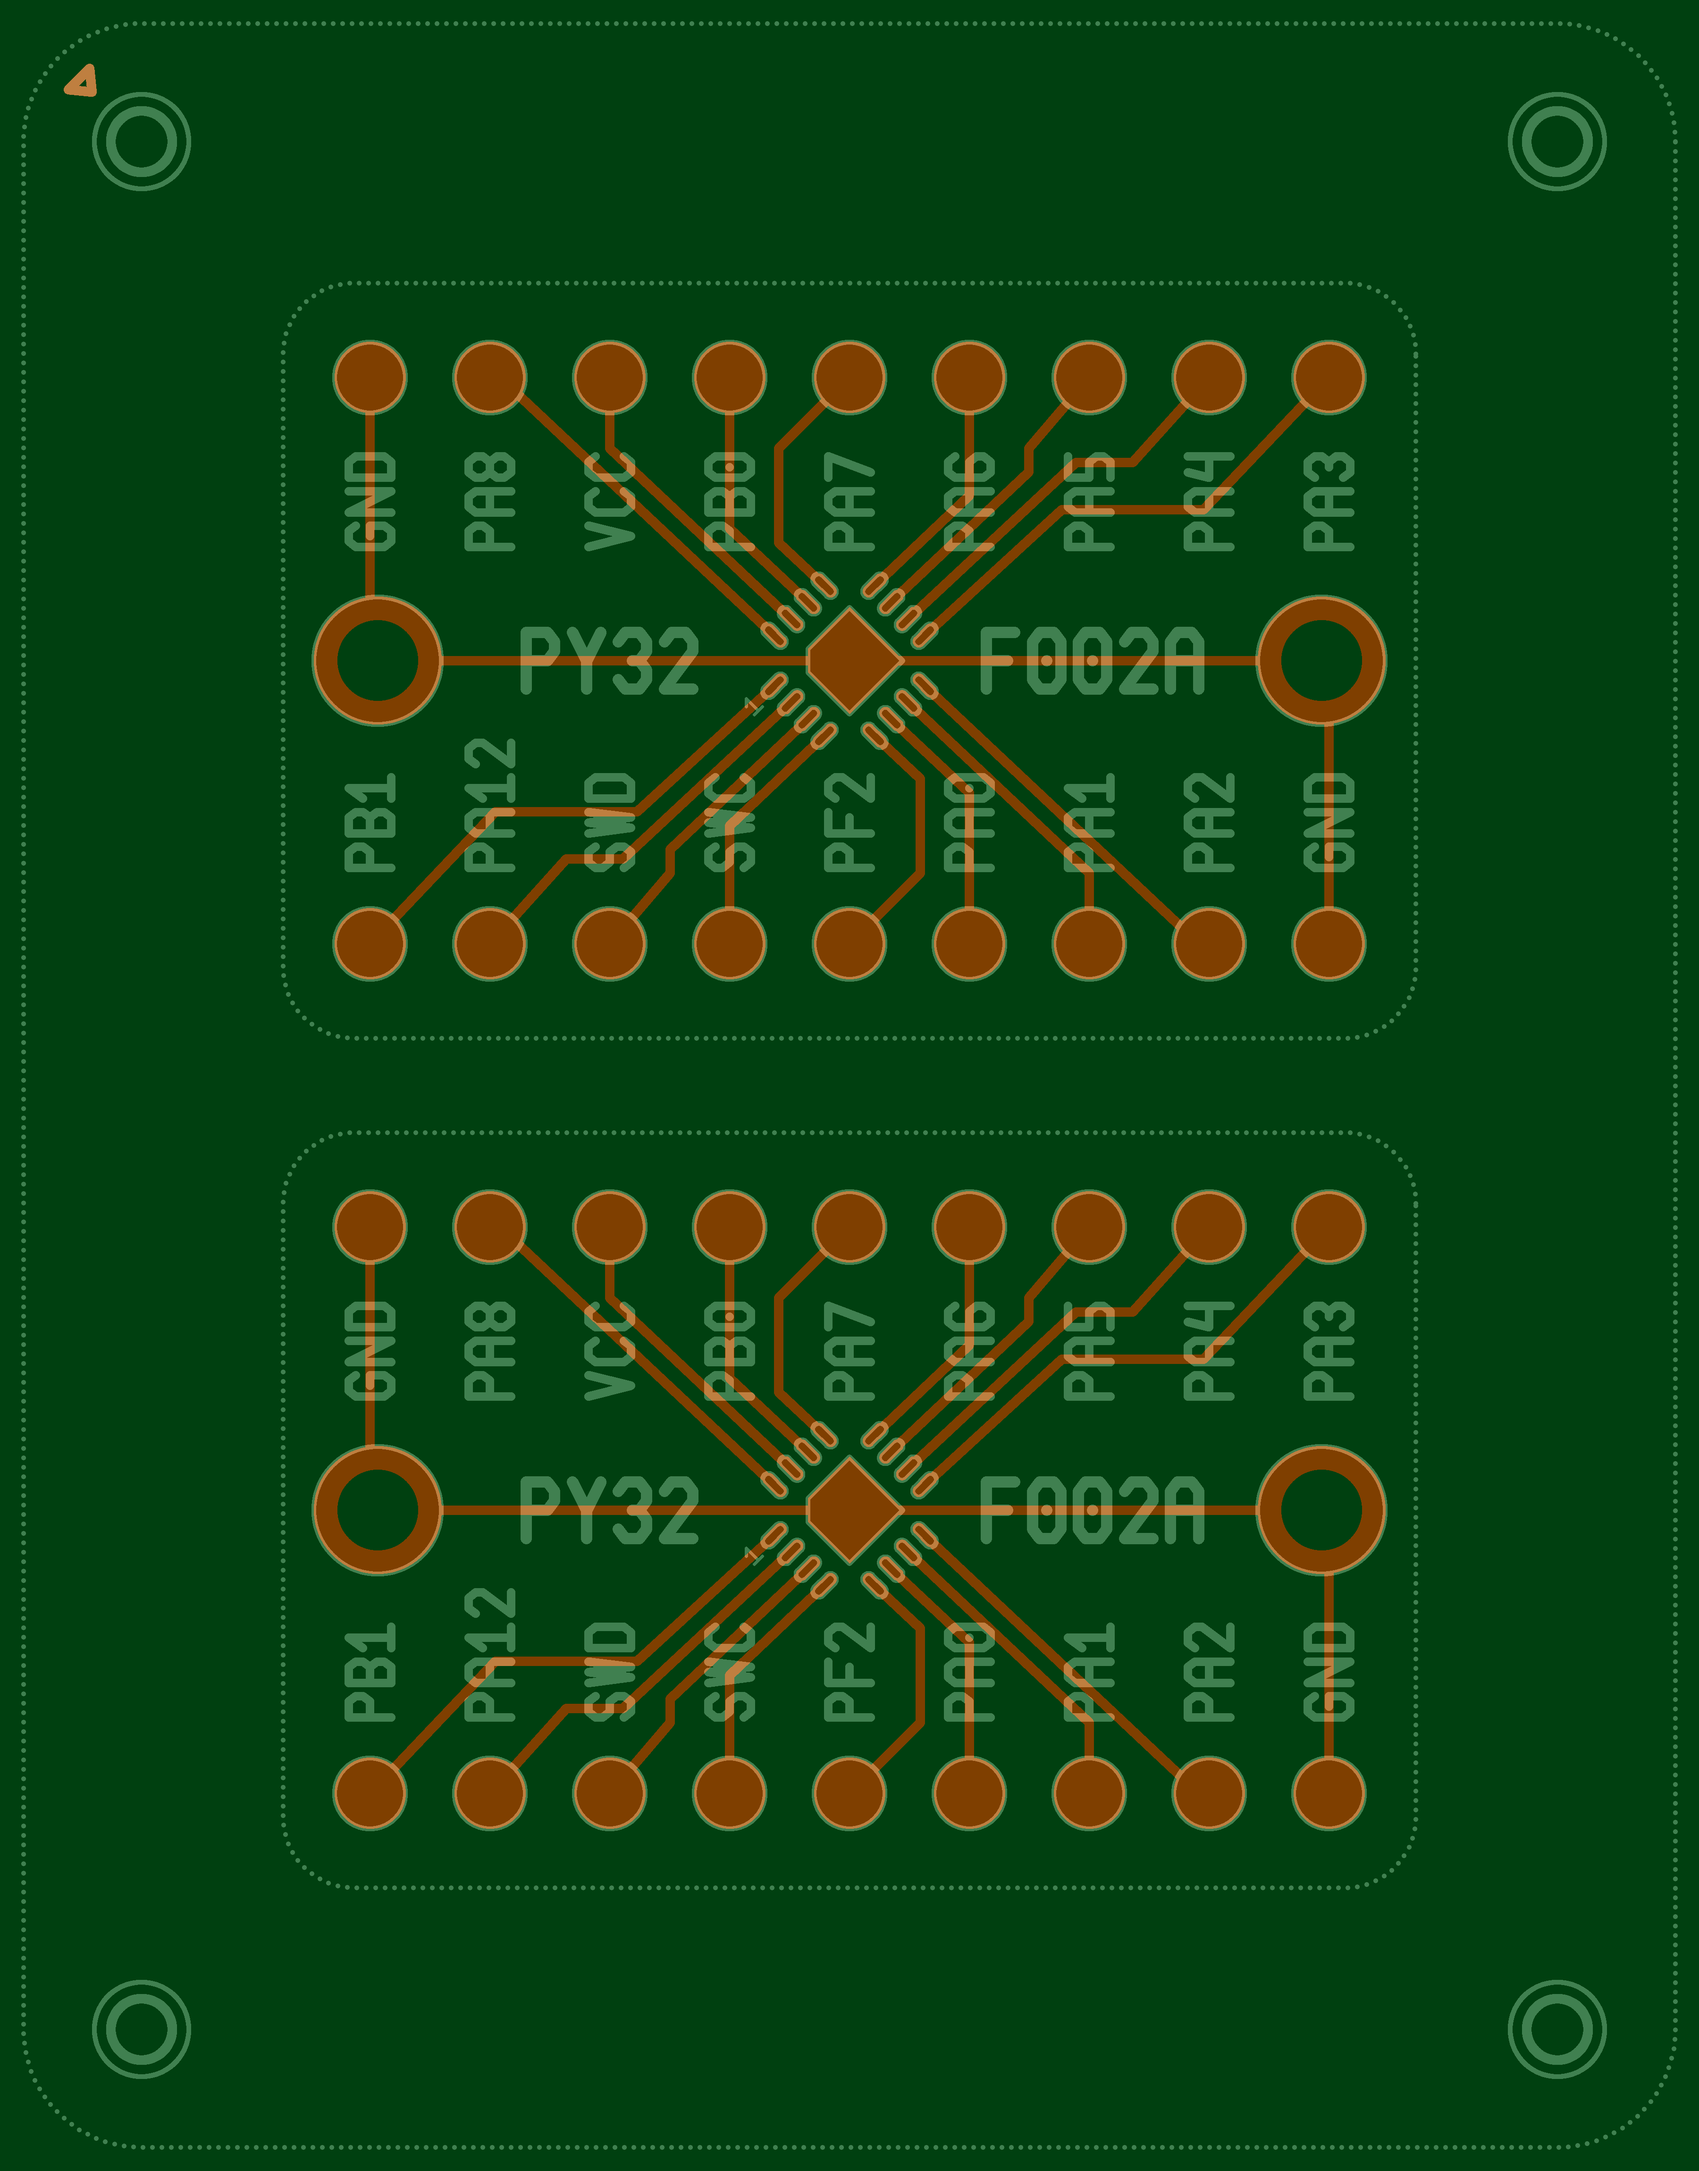
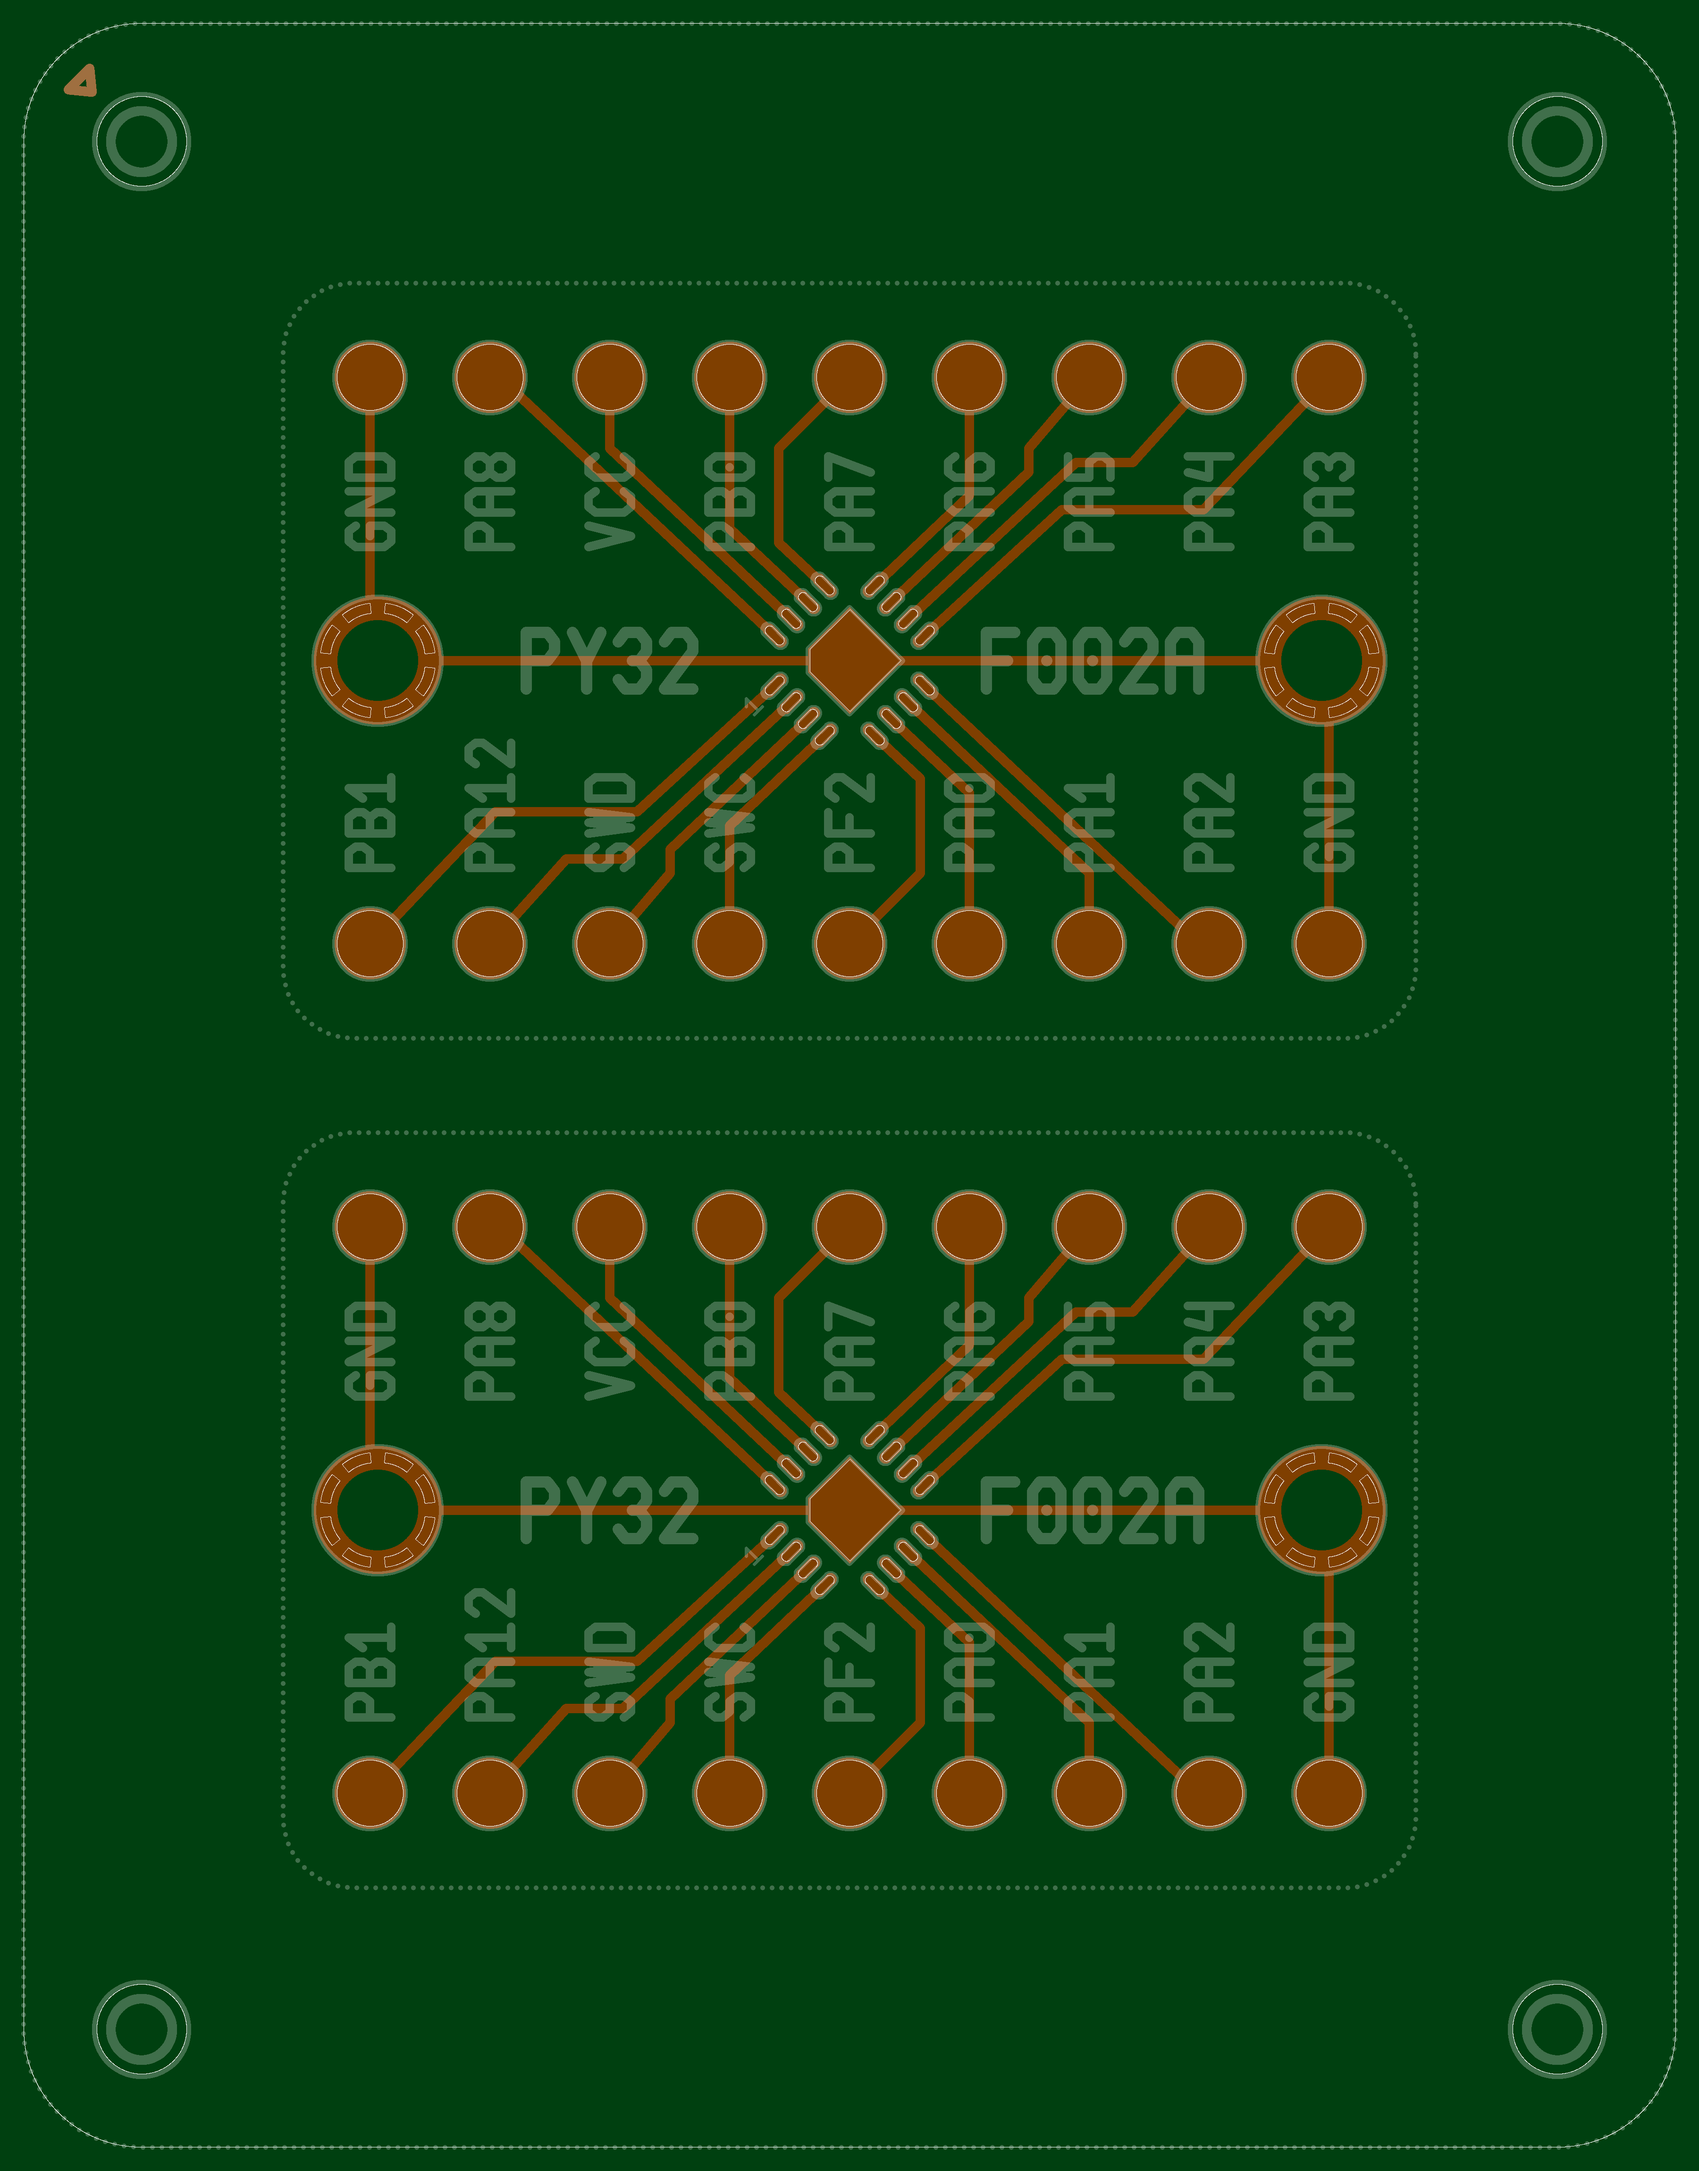
Add stencil to overview

diff --git a/eda/pcb.go b/eda/pcb.go
@@ -21,7 +21,7 @@ type PCB struct {
 	cuts                                    [][]XY
 	holes, maskHoles                        [][]XY
 	stencilCuts, stencilHoles, stencilMarks [][]XY
-	cu, mask, silk                          *bitmap.Bitmap
+	cu, mask, silk, stencil                 *bitmap.Bitmap
 }
 
 func NewPCB(w, h float64) *PCB {
@@ -37,6 +37,7 @@ func NewPCB(w, h float64) *PCB {
 		cu:         bitmap.NewBitmap(wi, hi),
 		mask:       bitmap.NewBitmap(wi, hi),
 		silk:       bitmap.NewBitmap(wi, hi),
+		stencil:    bitmap.NewBitmap(wi, hi),
 	}
 }
 
@@ -134,14 +135,6 @@ func (pcb *PCB) SaveFiles(path string) error {
 
 	pcb.technologicalParts()
 
-	util.SavePng(path+"overview.png", &util.MultiImage{
-		Images: []image.Image{
-			pcb.cu.ToImage(color.RGBA{0, 0x40, 0x10, 0xFF}, color.RGBA{0xFF, 0x80, 0, 0x7F}),
-			pcb.mask.ToImage(color.RGBA{0, 0, 0, 0}, color.RGBA{0xFF, 0xFF, 0xFF, 0x40}),
-			pcb.silk.ToImage(color.RGBA{0, 0, 0, 0}, color.RGBA{0xFF, 0xFF, 0xFF, 0x40}),
-		},
-	})
-
 	if err := pcb.SaveEtch(path + "etch.lbrn"); err != nil {
 		return err
 	}
@@ -151,6 +144,17 @@ func (pcb *PCB) SaveFiles(path string) error {
 	}
 
 	if err := pcb.SaveStencil(path + "stencil.lbrn"); err != nil {
+		return err
+	}
+
+	if err := util.SavePng(path+"overview.png", &util.MultiImage{
+		Images: []image.Image{
+			pcb.cu.ToImage(color.RGBA{0, 0x40, 0x10, 0xFF}, color.RGBA{0xFF, 0x80, 0, 0x7F}),
+			pcb.mask.ToImage(color.RGBA{0, 0, 0, 0}, color.RGBA{0xFF, 0xFF, 0xFF, 0x40}),
+			pcb.silk.ToImage(color.RGBA{0, 0, 0, 0}, color.RGBA{0xFF, 0xFF, 0xFF, 0x40}),
+			pcb.stencil.ToImage(color.RGBA{0, 0, 0, 0}, color.RGBA{0xFF, 0xFF, 0xFF, 0xFF}),
+		},
+	}); err != nil {
 		return err
 	}
 

diff --git a/eda/pcb_stencil.go b/eda/pcb_stencil.go
@@ -3,6 +3,7 @@ package eda
 import (
 	"temnok/lab/contour"
 	"temnok/lab/lbrn"
+	"temnok/lab/shape"
 )
 
 func (pcb *PCB) SaveStencil(filename string) error {
@@ -57,6 +58,8 @@ func (pcb *PCB) SaveStencil(filename string) error {
 		},
 	}
 
+	brush := shape.Circle(1)
+
 	for _, mark := range pcb.stencilMarks {
 		p.Shape = append(p.Shape, lbrn.NewPath(0, lbrnCenter, mark))
 	}
@@ -64,10 +67,12 @@ func (pcb *PCB) SaveStencil(filename string) error {
 	for _, hole := range pcb.stencilHoles {
 		resizedHole := contour.Resize(hole, -0.1)
 		p.Shape = append(p.Shape, lbrn.NewPath(1, lbrnCenter, resizedHole))
+		brush.IterateContour(resizedHole, pcb.bitmapTransform(), pcb.stencil.SetRow1)
 	}
 
 	for _, cut := range pcb.stencilCuts {
 		p.Shape = append(p.Shape, lbrn.NewPathWithTabs(2, lbrnCenter, cut))
+		brush.IterateContour(cut, pcb.bitmapTransform(), pcb.stencil.SetRow1)
 	}
 
 	return p.SaveToFile(filename)

diff --git a/util/multi_image.go b/util/multi_image.go
@@ -23,9 +23,9 @@ func (mi *MultiImage) At(x, y int) color.Color {
 	for _, i := range mi.Images {
 		r, g, b, a := i.At(x, y).RGBA()
 		k := float64(a) / 0xFFFF
-		tr += (float64(r) / 0xFFFF) * k
-		tg += (float64(g) / 0xFFFF) * k
-		tb += (float64(b) / 0xFFFF) * k
+		tr = tr*(1-k) + (float64(r)/0xFFFF)*k
+		tg = tg*(1-k) + (float64(g)/0xFFFF)*k
+		tb = tb*(1-k) + (float64(b)/0xFFFF)*k
 	}
 
 	return color.RGBA{byte(tr * 0xFF), byte(tg * 0xFF), byte(tb * 0xFF), 0xFF}

diff --git a/eda/lib/pcbc/py32f002a_qfn16.go b/eda/lib/pcbc/py32f002a_qfn16.go
@@ -72,6 +72,6 @@ func PY32F002A_QFN16(pcb *eda.PCB, t geom.Transform) {
 		pcb.PadNoStencil(t.Points(contour.Circle(1.35)))
 		pcb.HoleNoStencil(t.Points(contour.Circle(0.85)))
 
-		pcb.StencilHole(t.PointsAll(contour.Pie(8, 1.1, 1.3, 10*geom.Degree))...)
+		pcb.StencilHole(t.PointsAll(contour.Pie(8, 1, 1.25, 10*geom.Degree))...)
 	}
 }
